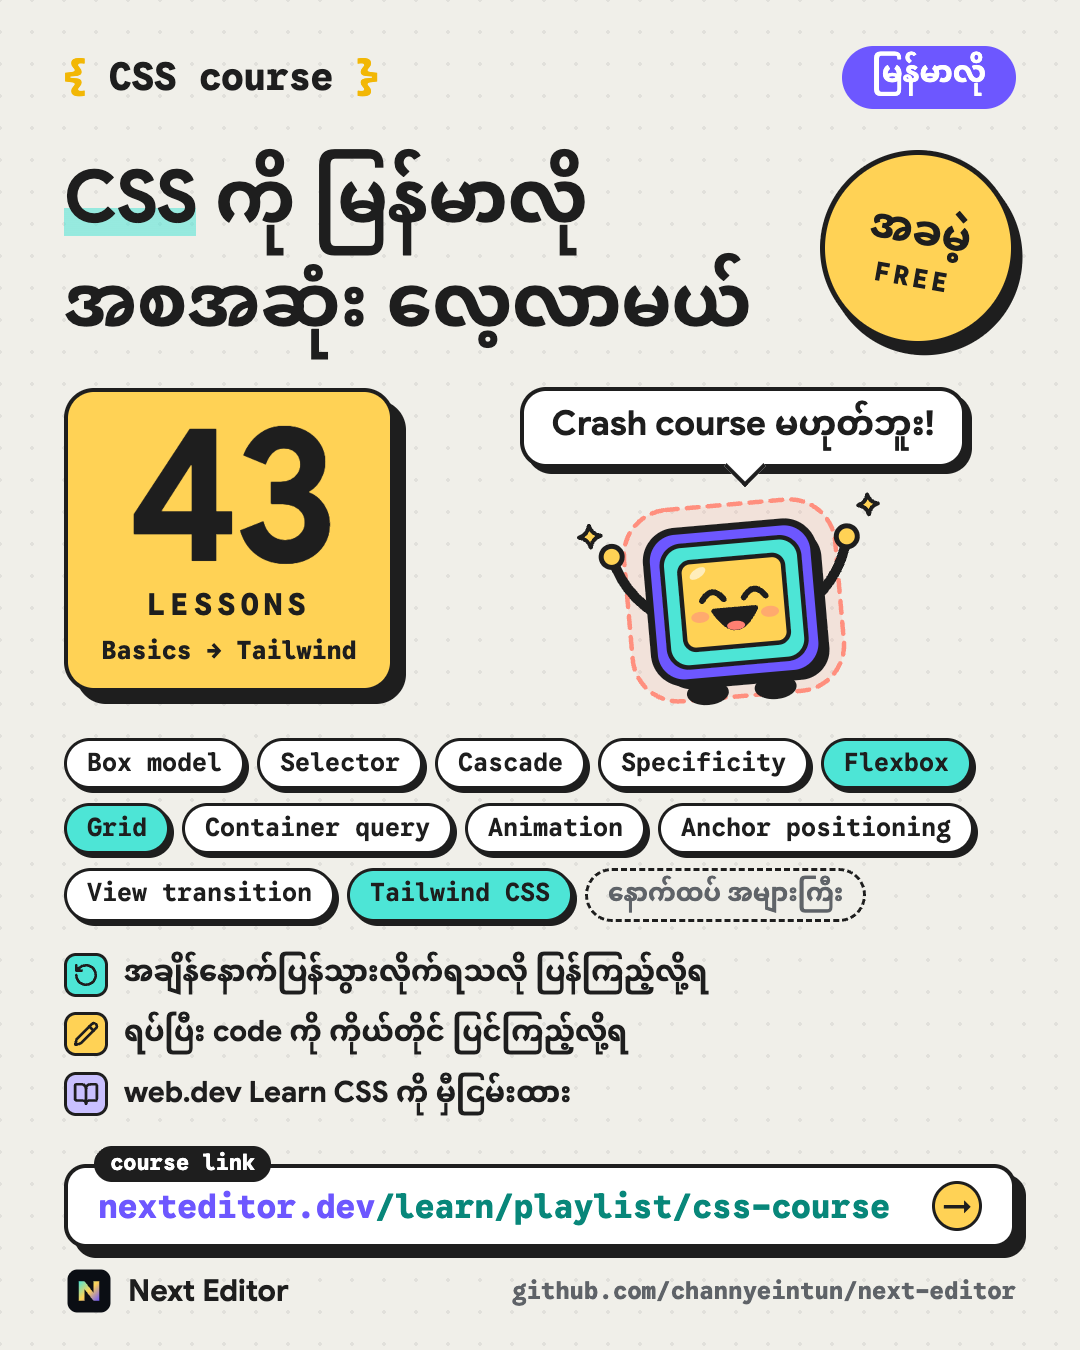
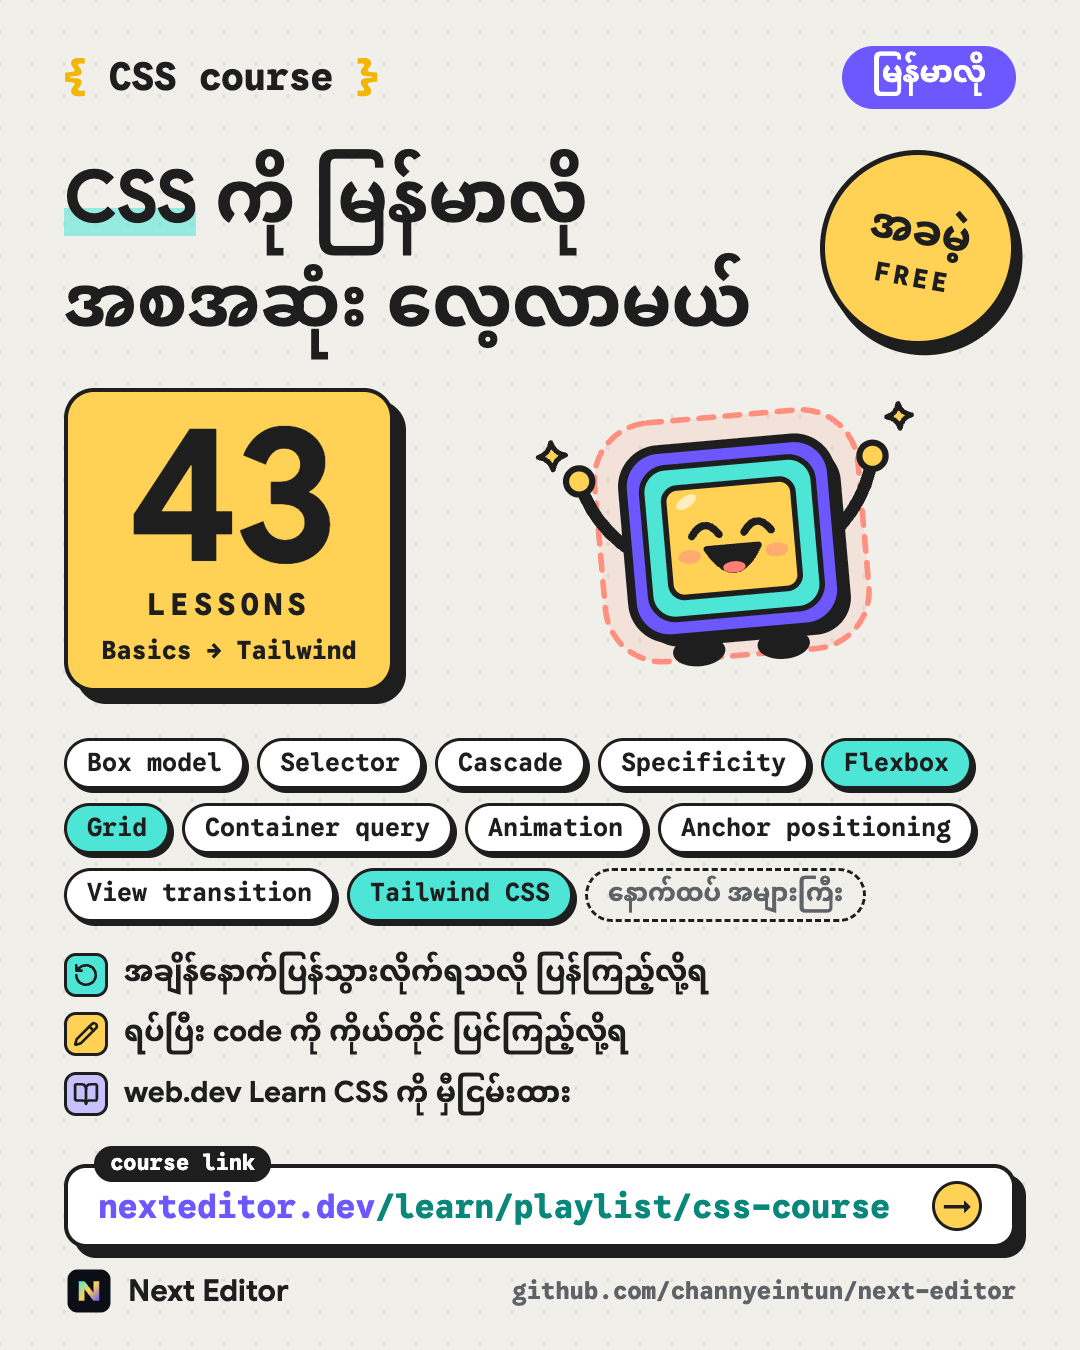
Update the poster

Changed region(s): [[0.4583, 0.28, 0.9167, 0.5289]]

diff --git a/docs/css-course-poster.html b/docs/css-course-poster.html
@@ -183,7 +183,7 @@
         display: flex;
         flex-direction: column;
         align-items: center;
-        justify-content: flex-end;
+        justify-content: center;
         gap: 26px;
       }
 
@@ -217,8 +217,8 @@
       }
 
       .boxy {
-        width: 324px;
-        height: 210px;
+        width: 400px;
+        height: 262px;
         overflow: visible;
         transform: rotate(-5deg);
         transform-origin: center bottom;
@@ -397,7 +397,6 @@
       </div>
 
       <div class="mascot">
-        <div class="bubble"><span class="latin">Crash course</span> မဟုတ်ဘူး!</div>
         <svg
           class="boxy"
           id="boxy"
